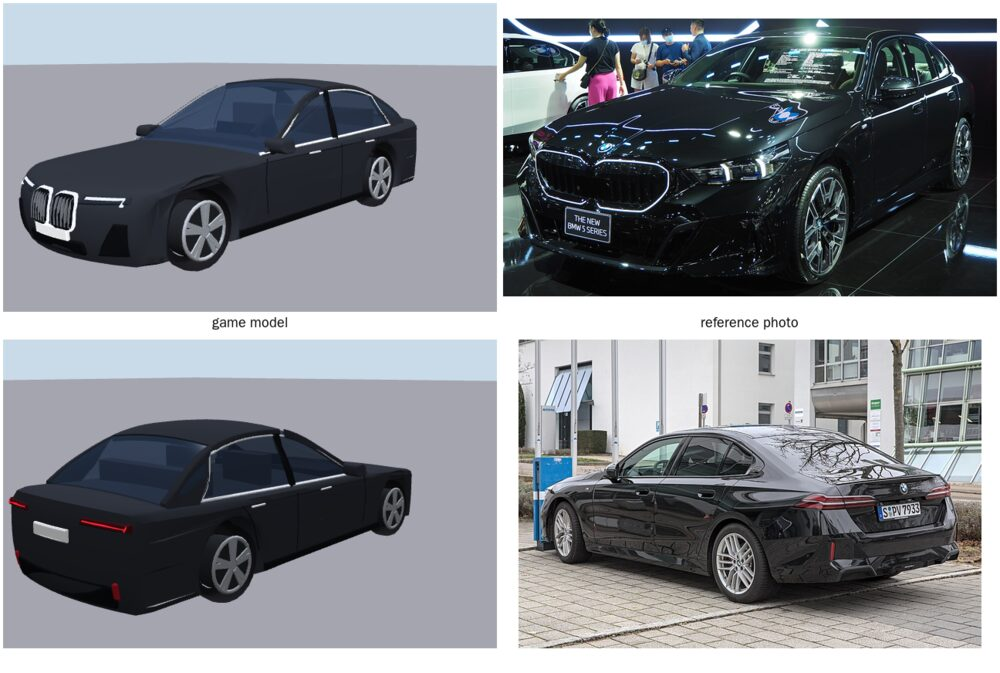
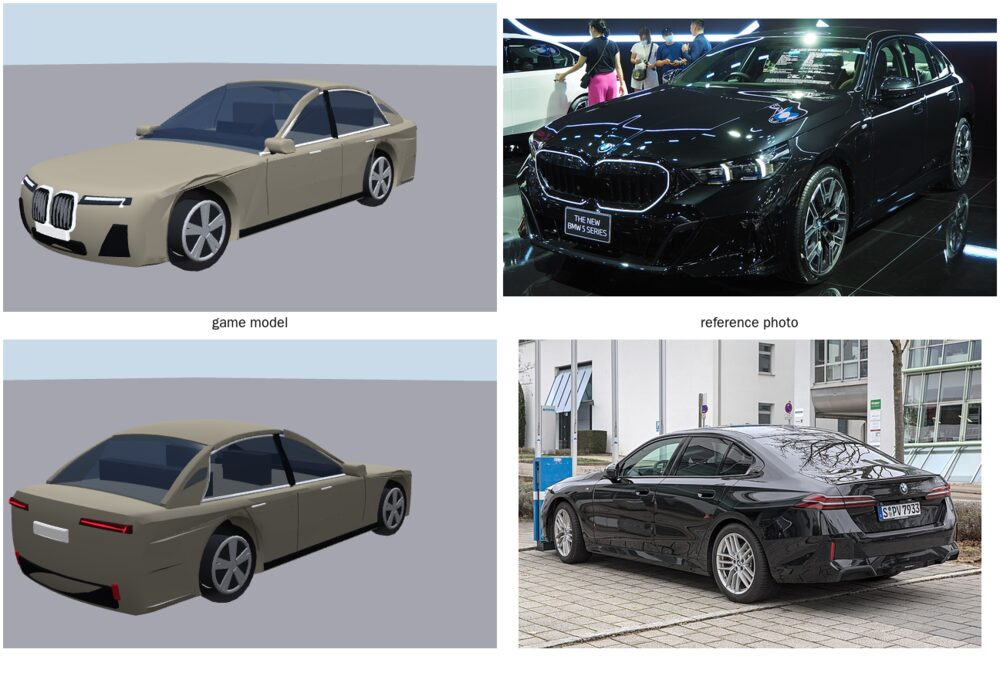
BMW 530e in champagne grey (Bernina Grey Amber effect), as Alex asked; gentler inset at sharp outline corners
Claude-Session: https://claude.ai/code/session_01FDUs8KtH4vCCFh5mR55Gyn

Changed region(s): [[0.0, 0.6241, 0.434, 0.9361], [0.0, 0.0936, 0.434, 0.4056]]

diff --git a/public/js/vehicles/models/bmw5.js b/public/js/vehicles/models/bmw5.js
@@ -1,10 +1,10 @@
 import { Car, along, archWell, both, carMeshes, edgeZ, flank, front, makeWarp, rear, rrect, runs, side, sideOutline, sills, strip } from './carkit.js';
 
 // ================= BMW 530e =================
-// The plug-in hybrid 5 Series saloon (G60) in Black Sapphire, M Sport: a long bonnet, the kidney grille with its lit
+// The plug-in hybrid 5 Series saloon (G60) in a champagne grey (Bernina Grey Amber effect), M Sport: a long bonnet, the kidney grille with its lit
 // contour ("Iconic Glow"), slim headlamps, the Hofmeister kink in a chrome window line, slim tail lamps and a black
 // diffuser. Drawn in real metres with the car kit and scaled to the game's car footprint.
-const PAINT = '#23262d', SEAM = '#0f1014', BLACK = '#0c0d10', CHROME = '#c9cdd3';
+const PAINT = '#7e796d', SEAM = '#545045', BLACK = '#0c0d10', CHROME = '#c9cdd3';
 const HW = 0.95, ZF = 1.67, ZR = -1.325, WR = 0.352, S = 0.92;
 
 function build() {

diff --git a/public/js/vehicles/models/carkit.js b/public/js/vehicles/models/carkit.js
@@ -107,7 +107,7 @@ function slab(poly, w0, w1, { r = 0.06, seg = 2, divs = 4, grid = 0.22, edge = 0
     let e1x = p[0] - a[0], e1y = p[1] - a[1], e2x = b[0] - p[0], e2y = b[1] - p[1];
     const l1 = Math.hypot(e1x, e1y) || 1, l2 = Math.hypot(e2x, e2y) || 1; e1x /= l1; e1y /= l1; e2x /= l2; e2y /= l2;
     let nx = e1y + e2y, ny = -e1x - e2x; const l = Math.hypot(nx, ny) || 1; nx /= l; ny /= l; // outward
-    const k = Math.min(2.5, 1 / Math.max(0.2, nx * e1y - ny * e1x)); return [nx * k, ny * k];
+    const k = Math.min(1.4, 1 / Math.max(0.2, nx * e1y - ny * e1x)); return [nx * k, ny * k];
   });
   const ring = inset => poly.map((p, i) => [p[0] - N[i][0] * inset, p[1] - N[i][1] * inset]);
   const rings = [];
